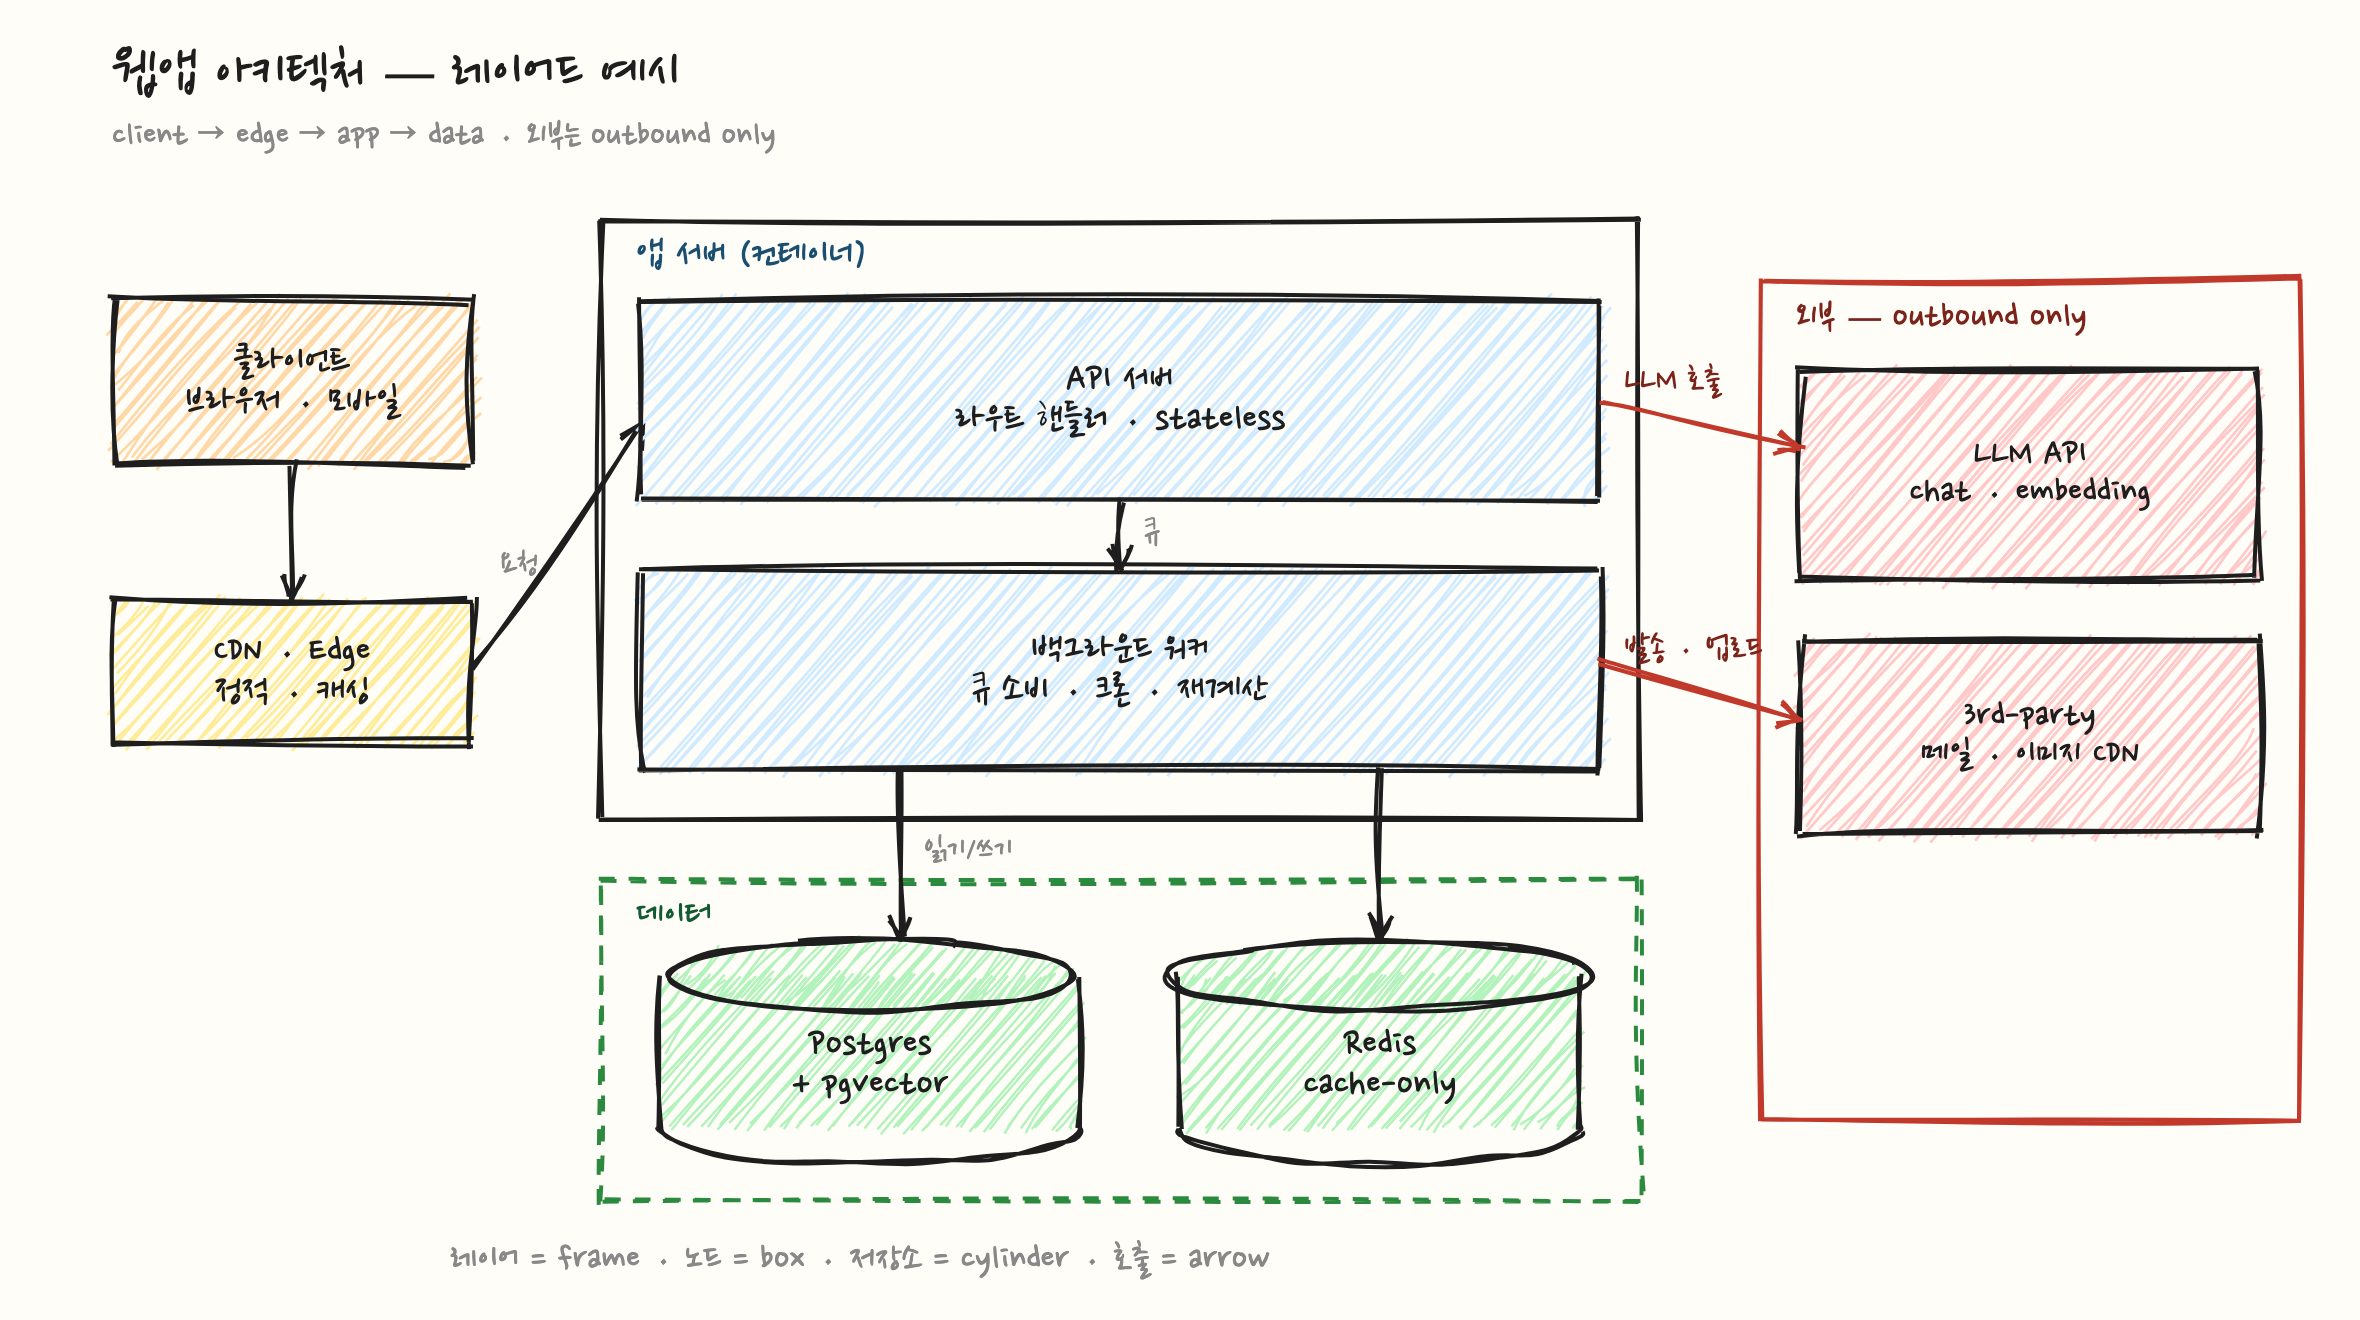
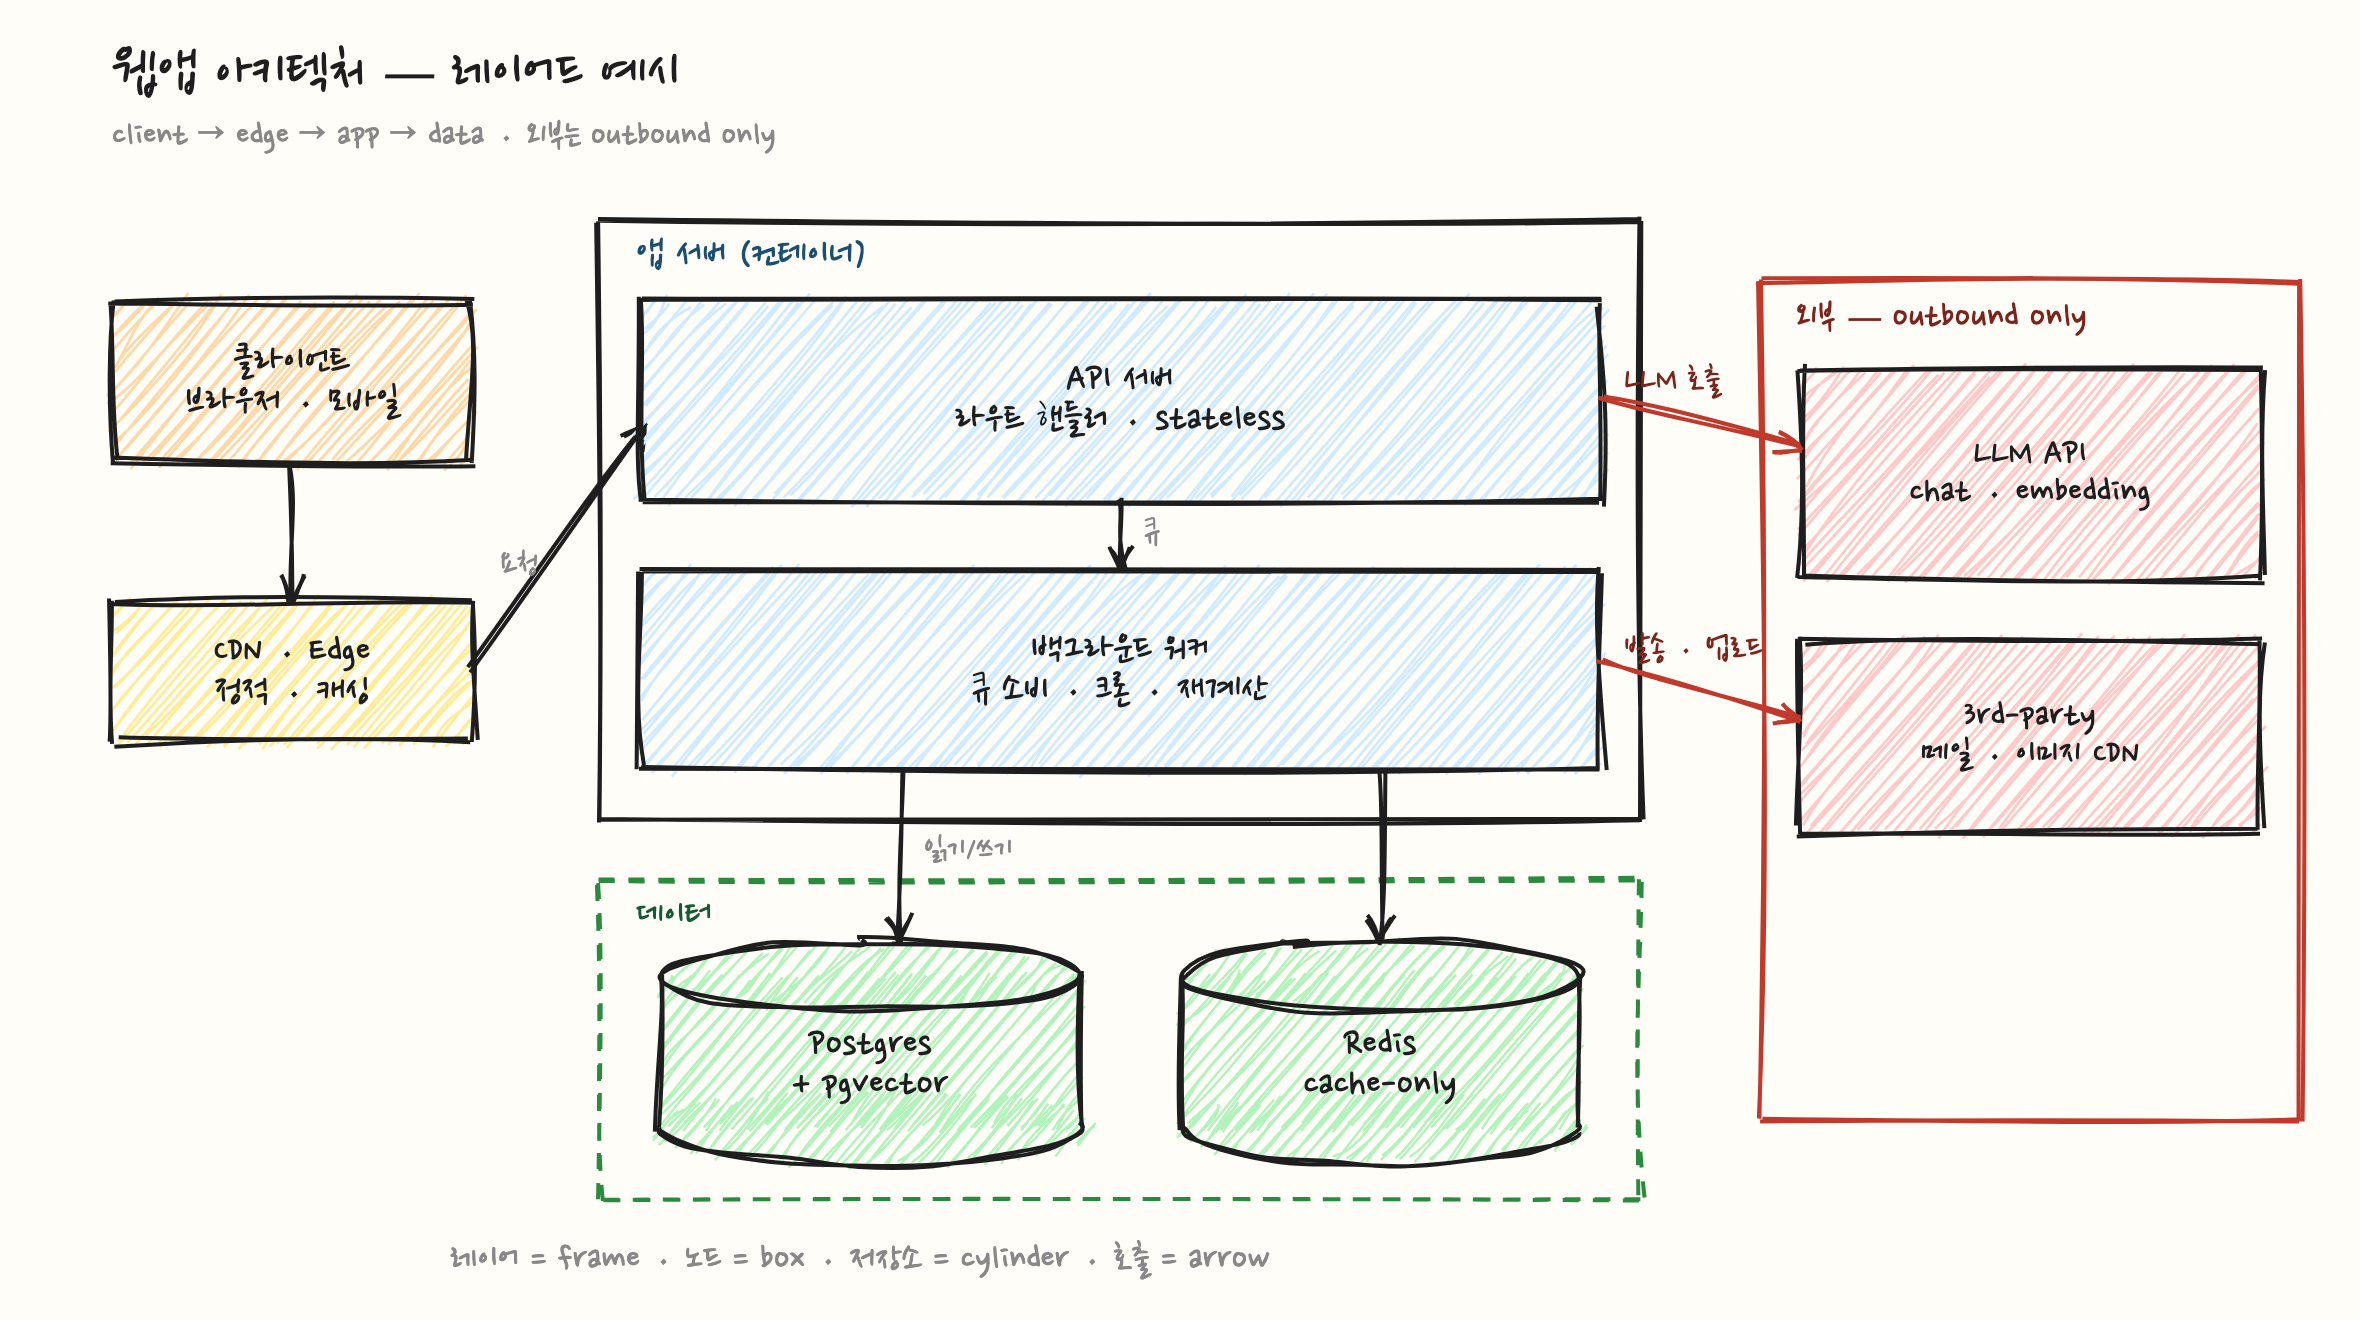
fix(cylinder): fill bottom cap to remove the unfilled crescent at the base

diff --git a/skills/handdrawn-diagrams/examples/layered-arch.html b/skills/handdrawn-diagrams/examples/layered-arch.html
@@ -49,6 +49,7 @@ function cylinder(x,y,w,h,fill,lines,o={}){
   const cx=x+w/2, ry=Math.min(h*0.16,20), stroke=o.stroke||STROKE;
   const fillO={roughness:1.5,stroke:"none",fill,fillStyle:"hachure",fillWeight:1.2,hachureGap:6};
   svg.appendChild(rc.rectangle(x,y+ry,w,h-2*ry,fillO));
+  svg.appendChild(rc.ellipse(cx,y+h-ry,w,2*ry,fillO));
   svg.appendChild(rc.ellipse(cx,y+ry,w,2*ry,{...fillO,stroke,strokeWidth:2}));
   svg.appendChild(rc.line(x,y+ry,x,y+h-ry,{roughness:1.3,stroke,strokeWidth:2}));
   svg.appendChild(rc.line(x+w,y+ry,x+w,y+h-ry,{roughness:1.3,stroke,strokeWidth:2}));

diff --git a/skills/handdrawn-diagrams/template.html b/skills/handdrawn-diagrams/template.html
@@ -71,6 +71,7 @@ function cylinder(x,y,w,h,fill,lines,o={}){
   const cx=x+w/2, ry=Math.min(h*0.16,20), stroke=o.stroke||STROKE;
   const fillO={roughness:1.5,stroke:"none",fill,fillStyle:"hachure",fillWeight:1.2,hachureGap:6};
   svg.appendChild(rc.rectangle(x,y+ry,w,h-2*ry,fillO));                 // 몸통 채움(외곽선 없이)
+  svg.appendChild(rc.ellipse(cx,y+h-ry,w,2*ry,fillO));                  // 바닥 cap 채움(곡면 아래 빈틈 방지)
   svg.appendChild(rc.ellipse(cx,y+ry,w,2*ry,{...fillO,stroke,strokeWidth:2})); // 윗면
   svg.appendChild(rc.line(x,y+ry,x,y+h-ry,{roughness:1.3,stroke,strokeWidth:2}));     // 왼면
   svg.appendChild(rc.line(x+w,y+ry,x+w,y+h-ry,{roughness:1.3,stroke,strokeWidth:2})); // 오른면